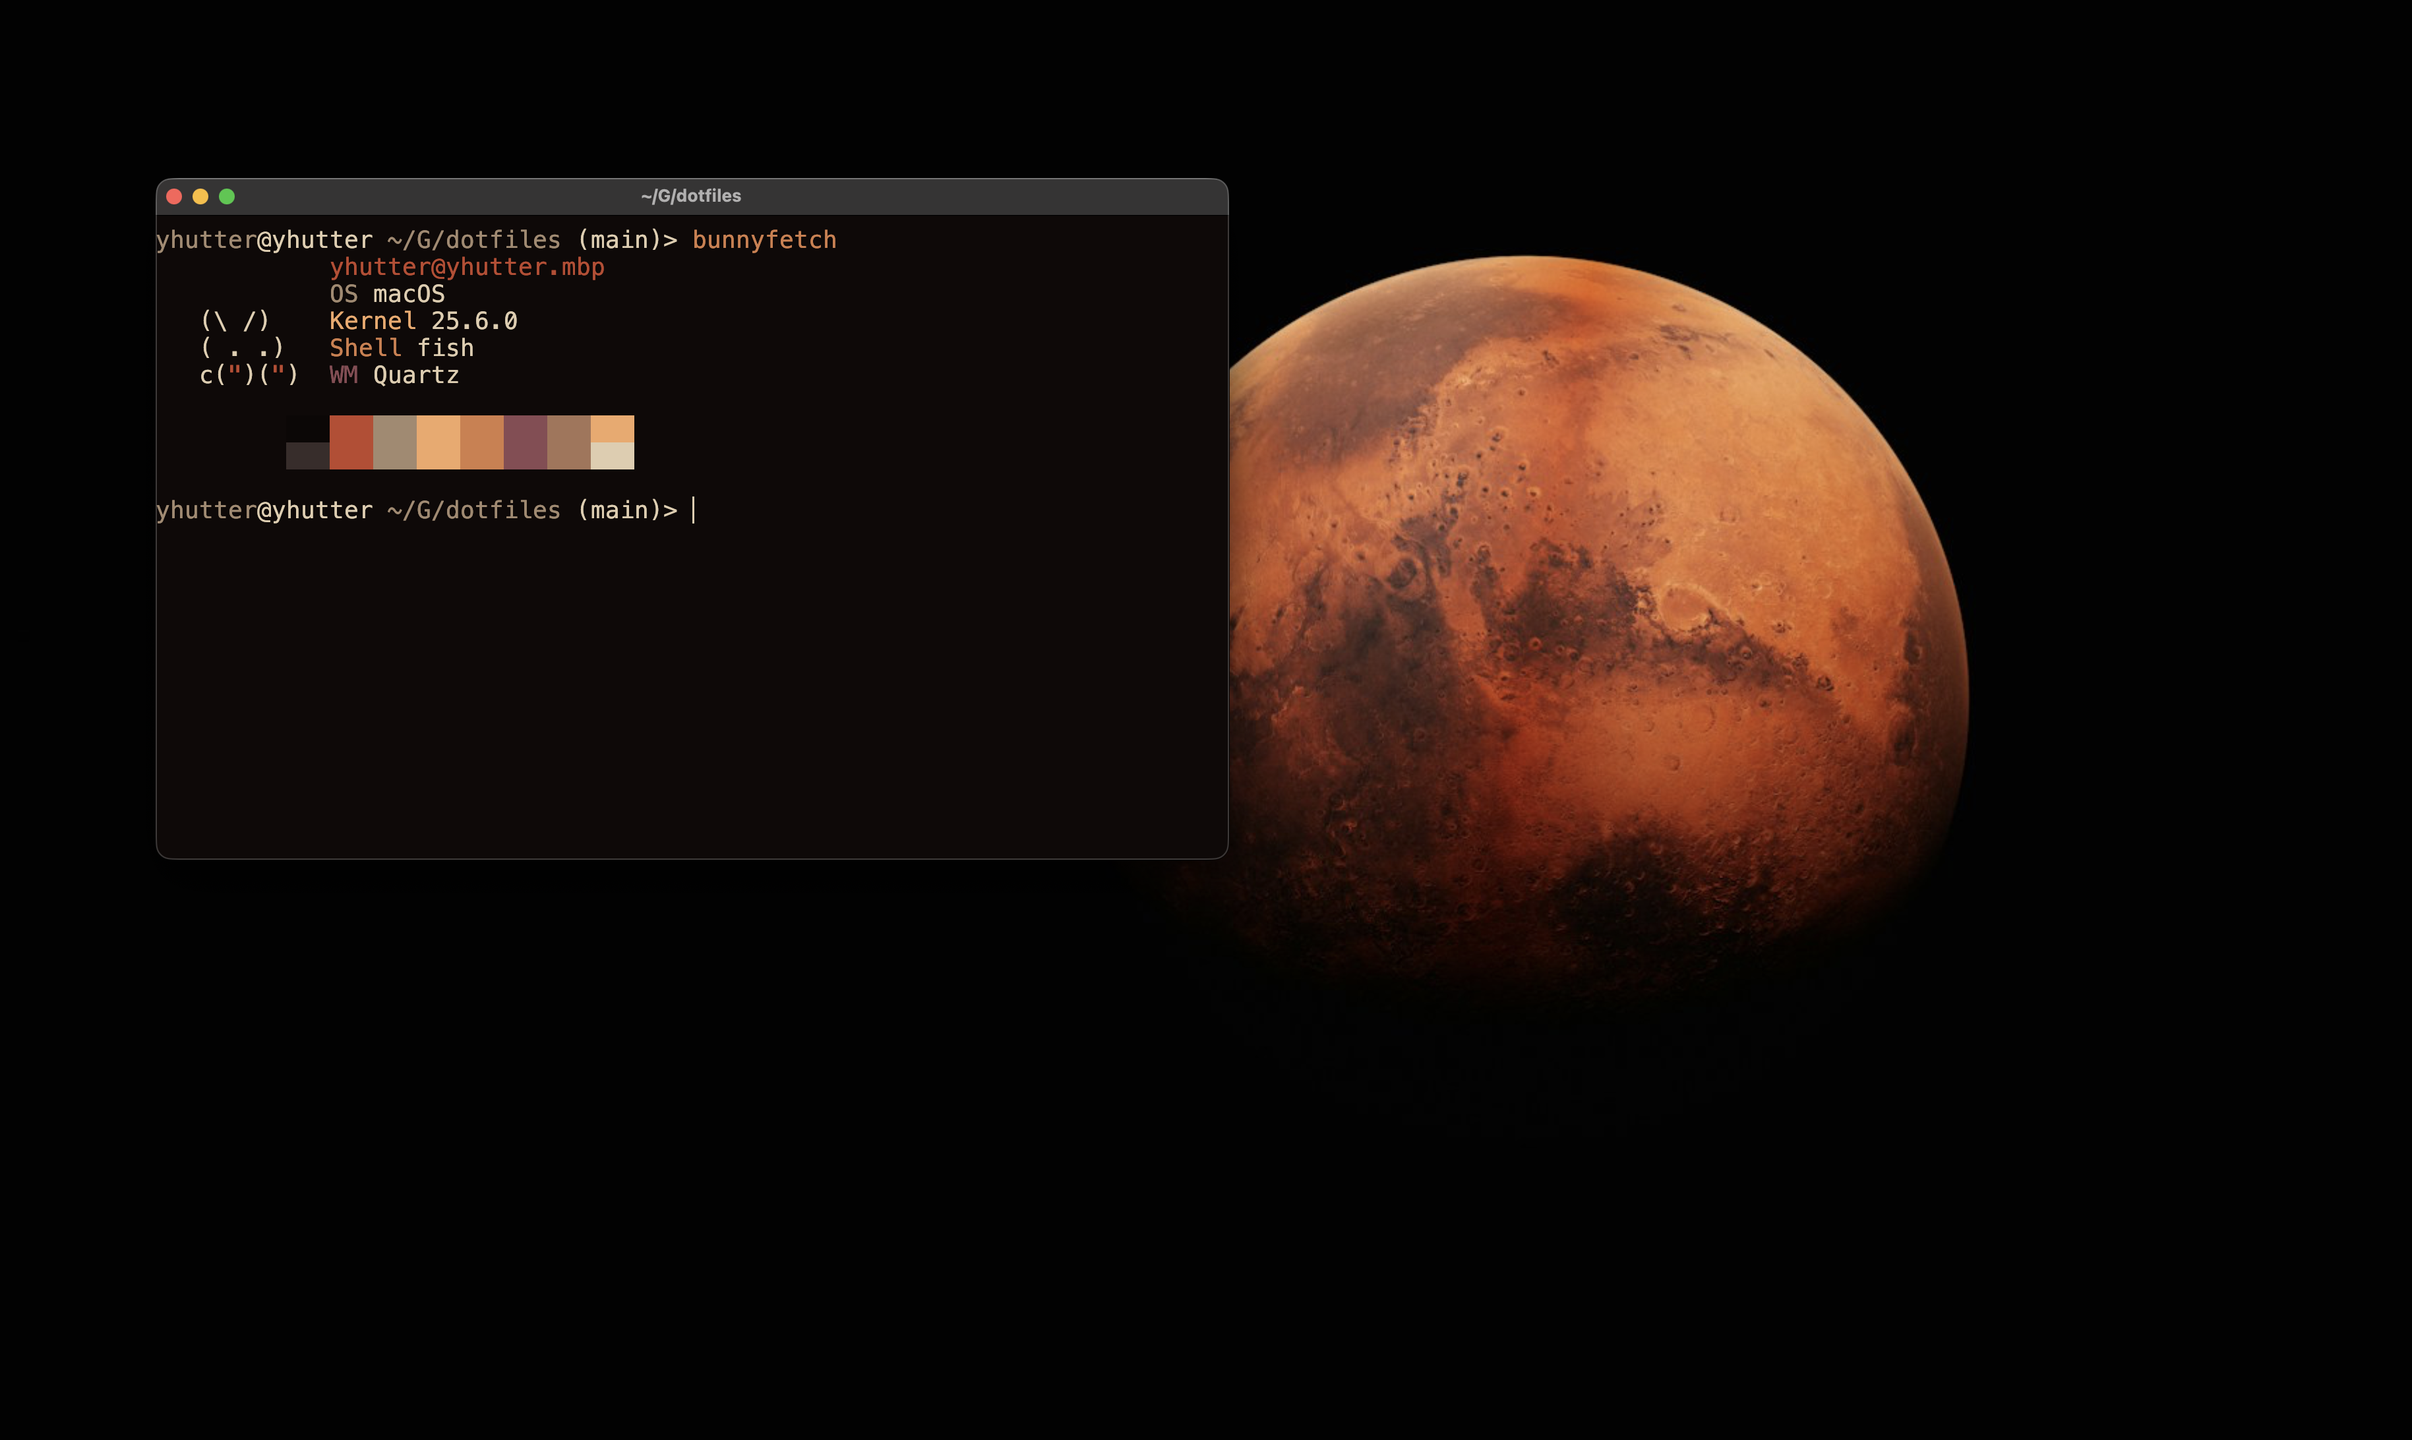
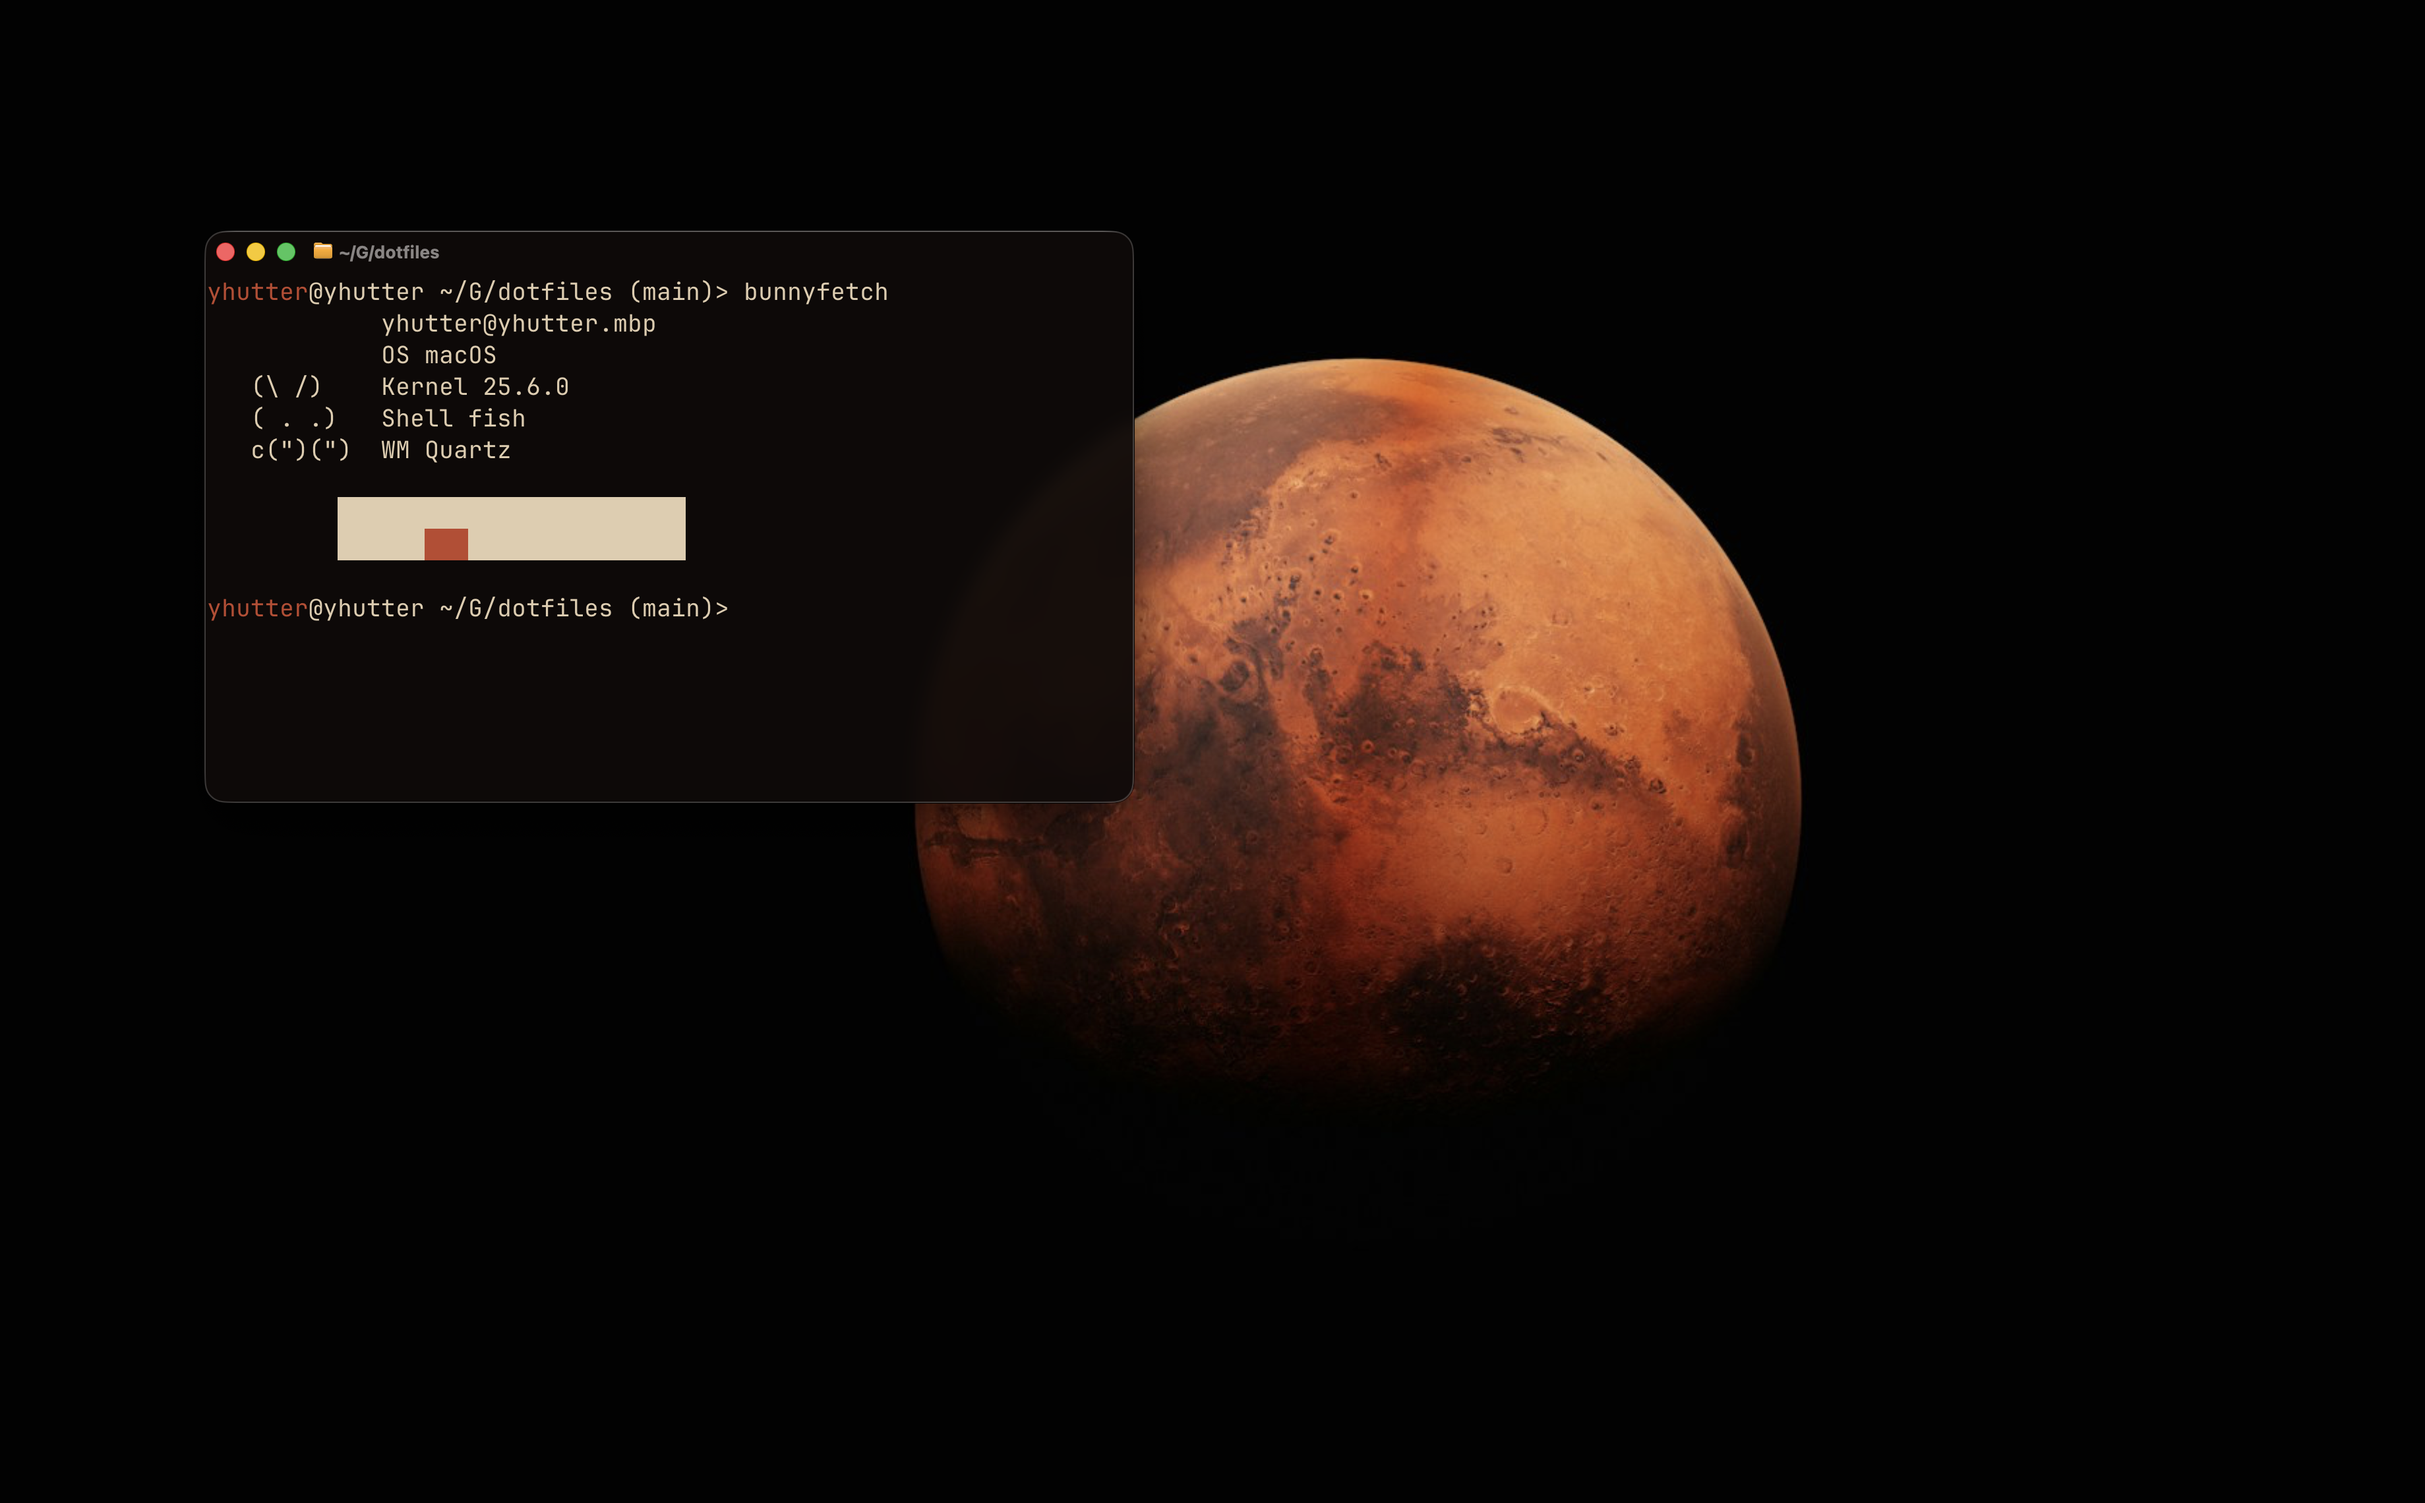
Update theme

Changed region(s): [[0.374, 0.1557, 0.8414, 0.7161], [0.0623, 0.1245, 0.5298, 0.3736]]

diff --git a/README.md b/README.md
@@ -21,8 +21,11 @@ brew install --cask font-jetbrains-mono-nerd-font
 - `Ghostty` terminal of choice
 
 ## Colorscheme
-I use a custom variant of the `Naysayer` color theme:
-- [Naysayer Theme](https://github.com/alljokecake/naysayer-theme.nvim)
+I use a custom variant of the `Farout` color theme:
+- [Farout Theme](https://github.com/thallada/farout.nvim/tree/main)
+
+## Wallpaper
+The wallpaper can be found [here](https://unsplash.com/photos/the-planet-mars-in-outer-space-BeUwLrt6HCQ).
 
 ## Setup
 - Copy the folders into `$HOME/.config` 
